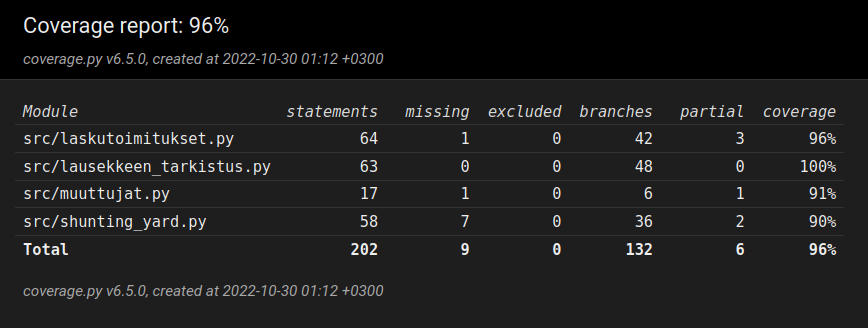
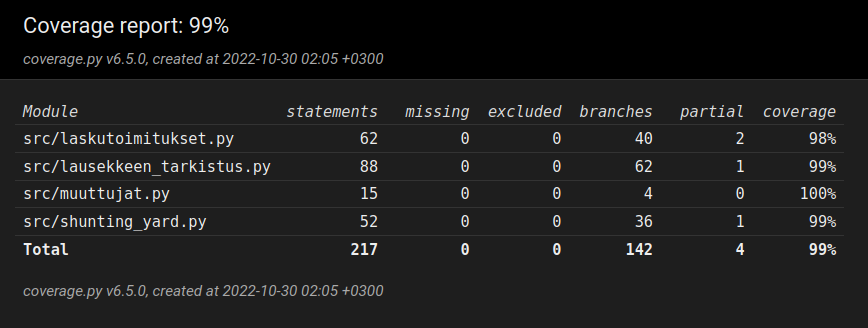
testausta

diff --git a/src/shunting_yard.py b/src/shunting_yard.py
@@ -19,64 +19,53 @@ class ShuntingYard():
         jono = []
         edellinen_operandi = ""
 
-        try:
-            for operandi in lauseke:
-                if operandi == "(":
-                    pino.append(operandi)
+        for operandi in lauseke:
+            if operandi == "(":
+                pino.append(operandi)
 
-                elif operandi == ")":
-                    while pino[-1] != "(":
-                        jono.append(pino[-1])
-                        pino.pop()
+            elif operandi == ")":
+                while pino[-1] != "(":
+                    jono.append(pino[-1])
                     pino.pop()
+                pino.pop()
+                if len(pino) == 0:
+                    continue
+                if pino[-1] in ("sin", "cos", "tan", "asin", "acos", "atan"):
+                    jono.append(pino[-1])
+                    pino.pop()
+            elif operandi in ("+", "-"):
+                if operandi == "-" and edellinen_operandi not in self.numerot and edellinen_operandi not in self.kirjaimet:
+                    jono.append("0")
+                while True:
                     if len(pino) == 0:
-                        continue
-                    if pino[-1] in ("sin", "cos", "tan", "asin", "acos", "atan"):
-                        jono.append(pino[-1])
-                        pino.pop()
-
-                elif operandi in ("+", "-"):
-                    if operandi == "-" and edellinen_operandi not in self.numerot and edellinen_operandi not in self.kirjaimet:
-                        jono.append("0")
-                    while True:
-                        if len(pino) == 0:
-                            break
-                        if pino[-1] not in ("+", "-", "*", "/", "^"):
-                            break
+                        break
+                    if pino[-1] not in ("+", "-", "*", "/", "^"):
+                        break
+                    jono.append(pino[-1])
+                    pino.pop()
+                pino.append(operandi)
+            elif operandi in ("*", "/"):
+                if len(pino) > 0:
+                    if pino[-1] in ("*", "/", "^"):
                         jono.append(pino[-1])
                         pino.pop()
                     pino.append(operandi)
-
-                elif operandi in ("*", "/"):
-                    if len(pino) > 0:
-                        if pino[-1] in ("*", "/", "^"):
-                            jono.append(pino[-1])
-                            pino.pop()
-                        pino.append(operandi)
-                    else:
-                        pino.append(operandi)
-
-                elif operandi == "^":
+                else:
                     pino.append(operandi)
+            elif operandi == "^":
+                pino.append(operandi)
+            elif operandi[0] in self.numerot:
+                jono.append(operandi)
 
-                elif operandi[0] in self.numerot:
+            elif operandi[0] in self.kirjaimet:
+                if operandi in ("sin", "cos", "tan", "asin", "acos", "atan"):
+                    pino.append(operandi)
+                else:
                     jono.append(operandi)
 
-                elif operandi[0] in self.kirjaimet:
-                    if operandi in ("sin", "cos", "tan", "asin", "acos", "atan"):
-                        pino.append(operandi)
-                    else:
-                        jono.append(operandi)
-                else:
-                    print("tääl")
-                    return ["0"]
+            edellinen_operandi = operandi
 
-                edellinen_operandi = operandi
-
-            while len(pino) > 0:
-                jono.append(pino[-1])
-                pino.pop()
-            return jono
-        except IndexError:
-            print("indexError")
-            return ["0"]
+        while len(pino) > 0:
+            jono.append(pino[-1])
+            pino.pop()
+        return jono

diff --git a/src/testit/laskutoimitukset_test.py b/src/testit/laskutoimitukset_test.py
@@ -12,7 +12,8 @@ class TestiLaskutoimitukset(unittest.TestCase):
         kirjaimet = ["q", "w", "e", "r", "t", "y", "u", "i", "o", "p", "å", "a", "s",
                           "d", "f", "g", "h", "j", "k", "l", "ö", "ä", "z", "x", "c", "v", "b", "n", "m"]
         operaattorit = ["+", "-", "*", "/", "^", "=", "(", ")"]
-        self.laskutoimitukset = Laskutoimitukset(muuttujat, numerot, kirjaimet, operaattorit)
+        self.laskutoimitukset = Laskutoimitukset(
+            muuttujat, numerot, kirjaimet, operaattorit)
 
     def testi_peruslaskutoimitukset(self):
         self.assertEqual(self.laskutoimitukset.laske(['1', '2', '+']), 3)
@@ -20,13 +21,18 @@ class TestiLaskutoimitukset(unittest.TestCase):
         self.assertEqual(self.laskutoimitukset.laske(['1', '2', '/']), 0.5)
         self.assertEqual(self.laskutoimitukset.laske(['1', '2', '-']), -1)
         self.assertEqual(self.laskutoimitukset.laske(['1', '2', '^']), 1)
-        self.assertEqual(self.laskutoimitukset.laske(['1', '0', '/']), "virheellinen syöte")
+        self.assertEqual(self.laskutoimitukset.laske(
+            ['1', '0', '/']), "virheellinen syöte")
 
     def testi_funktiot(self):
-        self.assertEqual(self.laskutoimitukset.laske(['3.141592653589793', 'sin']), 0)
-        self.assertEqual(self.laskutoimitukset.laske(['3.141592653589793', 'cos']), -1)
-        self.assertEqual(self.laskutoimitukset.laske(['3.141592653589793', 'tan']), 0)
-        self.assertEqual(self.laskutoimitukset.laske(['8', 'asin']), "virheellinen syöte")
+        self.assertEqual(self.laskutoimitukset.laske(
+            ['3.141592653589793', 'sin']), 0)
+        self.assertEqual(self.laskutoimitukset.laske(
+            ['3.141592653589793', 'cos']), -1)
+        self.assertEqual(self.laskutoimitukset.laske(
+            ['3.141592653589793', 'tan']), 0)
+        self.assertEqual(self.laskutoimitukset.laske(
+            ['8', 'asin']), "virheellinen syöte")
         self.assertEqual(self.laskutoimitukset.laske(['1', 'acos']), 0)
         self.assertEqual(self.laskutoimitukset.laske(['0', 'atan']), 0)
 
@@ -38,5 +44,6 @@ class TestiLaskutoimitukset(unittest.TestCase):
     def testi_muuttujat(self):
         self.laskutoimitukset.muuttujat.lisaa_muuttuja(['x', '=', '9'])
         self.laskutoimitukset.muuttujat.lisaa_muuttuja(['y', '=', '-1'])
-        self.assertEqual(self.laskutoimitukset.laske(['z', 'x', '+']), "virheellinen syöte")
+        self.assertEqual(self.laskutoimitukset.laske(
+            ['z', 'x', '+']), "virheellinen syöte")
         self.assertEqual(self.laskutoimitukset.laske(['y', 'x', '+']), 8)

diff --git a/src/laskin.py b/src/laskin.py
@@ -34,50 +34,15 @@ class Laskin():
         while True:
             self.muuttujat.lisaa_muuttuja(['pi', '=', str(math.pi)])
             lauseke = self.kayttoliittyma.syote()
-            if self.lausekkeen_tarkistus.tarkista(lauseke) is False:
-                self.kayttoliittyma.virheviesti()
-                continue
             if lauseke == "-1":
                 break
-
-            lauseke = self._lausekkeen_muunto(lauseke)
-            if "=" in lauseke:
-                self.muuttujat.lisaa_muuttuja(lauseke)
+            tarkistettu_lauseke = self.lausekkeen_tarkistus.tarkista(lauseke)
+            if tarkistettu_lauseke is False:
+                self.kayttoliittyma.virheviesti()
+                continue
+            if "=" in tarkistettu_lauseke:
+                self.muuttujat.lisaa_muuttuja(tarkistettu_lauseke)
                 continue
             postfix_lauseke = self.shunting_yard.muunna(lauseke)
             self.kayttoliittyma.tulos(
                 self.laskutoimitukset.laske(postfix_lauseke))
-
-    def _lausekkeen_muunto(self, lauseke):
-        lauseke = lauseke.replace(" ", "")
-        lauseke = lauseke.replace("**", "^")
-        merkkijono = ""
-        uusi_lauseke = []
-        edellinen_merkki = ""
-
-        for merkki in lauseke:
-            if merkki not in self.numerot and edellinen_merkki == "numero":
-                uusi_lauseke.append(merkkijono)
-                merkkijono = ""
-            elif merkki not in self.kirjaimet and edellinen_merkki == "kirjain":
-                if merkkijono in ("sin", "cos", "tan"):
-                    uusi_lauseke.append(merkkijono)
-                else:
-                    uusi_lauseke.append(merkkijono)
-                merkkijono = ""
-
-            if merkki in self.numerot:
-                merkkijono += merkki
-                edellinen_merkki = "numero"
-            elif merkki in self.kirjaimet:
-                merkkijono += merkki
-                edellinen_merkki = "kirjain"
-            elif merkki in self.operaattorit:
-                uusi_lauseke.append(merkki)
-                edellinen_merkki = "operaattori"
-        if edellinen_merkki == "numero":
-            uusi_lauseke.append(merkkijono)
-        elif edellinen_merkki == "kirjain":
-            uusi_lauseke.append(merkkijono)
-
-        return uusi_lauseke

diff --git a/src/testit/lausekkeen_tarkistus_test.py b/src/testit/lausekkeen_tarkistus_test.py
@@ -14,12 +14,18 @@ class TestiLausekkeenTarkistus(unittest.TestCase):
             numerot, kirjaimet, operaattorit)
 
     def testi_hyvaksyttavat_lausekkeet(self):
-        self.assertEqual(self.lausekkeen_tarkistus.tarkista("sin(1.234+2)"), True)
-        self.assertEqual(self.lausekkeen_tarkistus.tarkista("7-8"), True)
-        self.assertEqual(self.lausekkeen_tarkistus.tarkista("-(1+2)*5"), True)
-        self.assertEqual(self.lausekkeen_tarkistus.tarkista("cos(9.345)-2.2"), True)
-        self.assertEqual(self.lausekkeen_tarkistus.tarkista("-2**5"), True)
-        self.assertEqual(self.lausekkeen_tarkistus.tarkista("-(1+(2*x)/6)-3"), True)
+        self.assertEqual(
+            self.lausekkeen_tarkistus.tarkista("sin(1.234+2)"), ['sin', '(', '1.234', '+', '2', ')'])
+        self.assertEqual(self.lausekkeen_tarkistus.tarkista(
+            "7-8"), ['7', '-', '8'])
+        self.assertEqual(self.lausekkeen_tarkistus.tarkista(
+            "-(1+2)*5"), ['-', '(', '1', '+', '2', ')', '*', '5'])
+        self.assertEqual(self.lausekkeen_tarkistus.tarkista(
+            "cos(9.345)-2.2"), ['cos', '(', '9.345', ')', '-', '2.2'])
+        self.assertEqual(self.lausekkeen_tarkistus.tarkista(
+            "-2**5"), ['-', '2', '^', '5'])
+        self.assertEqual(self.lausekkeen_tarkistus.tarkista(
+            "-(1+(2*x)/16)-koira"), ['-', '(', '1', '+', '(', '2', '*', 'x', ')', '/', '16', ')', '-', 'koira'])
 
     def testi_tunnistamaton_merkki(self):
         self.assertEqual(self.lausekkeen_tarkistus.tarkista("1,2"), False)
@@ -33,7 +39,8 @@ class TestiLausekkeenTarkistus(unittest.TestCase):
     def testi_virheelliset_lausekkeet(self):
         self.assertEqual(self.lausekkeen_tarkistus.tarkista("1--2"), False)
         self.assertEqual(self.lausekkeen_tarkistus.tarkista("(.2+2)"), False)
-        self.assertEqual(self.lausekkeen_tarkistus.tarkista("(1+2)(3-4)"), False)
+        self.assertEqual(
+            self.lausekkeen_tarkistus.tarkista("(1+2)(3-4)"), False)
         self.assertEqual(self.lausekkeen_tarkistus.tarkista("5(4-2)1"), False)
         self.assertEqual(self.lausekkeen_tarkistus.tarkista("3.14.5"), False)
         self.assertEqual(self.lausekkeen_tarkistus.tarkista("1*(1+3"), False)

diff --git a/src/testit/shunting_yard_test.py b/src/testit/shunting_yard_test.py
@@ -2,16 +2,22 @@ import unittest
 
 from shunting_yard import ShuntingYard
 
+
 class TestiShuntingYard(unittest.TestCase):
     def setUp(self):
         numerot = ["0", "1", "2", "3", "4", "5", "6", "7", "8", "9"]
         kirjaimet = ["q", "w", "e", "r", "t", "y", "u", "i", "o", "p", "å", "a", "s",
                           "d", "f", "g", "h", "j", "k", "l", "ö", "ä", "z", "x", "c", "v", "b", "n", "m"]
-        self.shunting_yard=ShuntingYard(numerot, kirjaimet)
+        self.shunting_yard = ShuntingYard(numerot, kirjaimet)
 
     def testi_lausekkeen_muuntaminen_toimii_oikein(self):
-        self.assertEqual(self.shunting_yard.muunna(['3', '+', '4', '*', '(', '2', '-', '1', ')']), ["3", "4", "2", "1", "-", "*", "+"])
-        self.assertEqual(self.shunting_yard.muunna(['-', '(', '8', '-', '2', ')', '^', '2']), ['0', '8', '2', '-', '2', '^', '-'])
-        self.assertEqual(self.shunting_yard.muunna(['-', 'cos', '(', 'pi', ')', '-', '3', '/', '7']), ['0', 'pi', 'cos', '0', '-', '3', '7', '/', '-'])
-        self.assertEqual(self.shunting_yard.muunna(['(', '(', '2', '-', '3', ')', '^', '2', '-', '(', '3', '*', '1', ')', ')', '/', '4']), ['2', '3', '-', '2', '^', '3', '1', '*', '-', '4', '/'])
-        
+        self.assertEqual(self.shunting_yard.muunna(
+            ['3', '+', '4', '*', '(', '2', '-', '1', ')']), ["3", "4", "2", "1", "-", "*", "+"])
+        self.assertEqual(self.shunting_yard.muunna(
+            ['-', '(', '8', '-', '2', ')', '^', '2']), ['0', '8', '2', '-', '2', '^', '-'])
+        self.assertEqual(self.shunting_yard.muunna(
+            ['-', 'cos', '(', 'pi', ')', '-', '3', '/', '7']), ['0', 'pi', 'cos', '0', '-', '3', '7', '/', '-'])
+        self.assertEqual(self.shunting_yard.muunna(['(', '(', '2', '-', '3', ')', '^', '2', '-', '(',
+                         '3', '*', '1', ')', ')', '/', '4']), ['2', '3', '-', '2', '^', '3', '1', '*', '-', '4', '/'])
+        self.assertEqual(self.shunting_yard.muunna(
+            ['2', '*', '3', '*', '5', '/', '3']), ['2', '3', '*', '5', '*', '3', '/'])

diff --git a/src/lausekkeen_tarkistus.py b/src/lausekkeen_tarkistus.py
@@ -13,14 +13,42 @@ class LausekkeenTarkistus():
         Args:
             lauseke (merkkijono): tarkistettava lauseke
         """
+        lauseke = lauseke.replace(" ", "")
+        lauseke = lauseke.replace("**", "^")
         if "=" in lauseke:
             return self._tarkista_muuttujan_lisays(lauseke)
         if not (self._tarkista_sulut(lauseke) and self._tarkista_desimaalipisteet(lauseke) and self._tarkista_lausekkeen_jarjestys(lauseke)):
             return False
-        return True
+        lauseke = self._muunna_listaksi(lauseke)
+        return lauseke
+
+    def _muunna_listaksi(self, lauseke):
+        merkkijono = ""
+        uusi_lauseke = []
+        edellinen_merkki = ""
+
+        for merkki in lauseke:
+            if (merkki not in self.numerot and edellinen_merkki == "numero") or (merkki not in self.kirjaimet and edellinen_merkki == "kirjain"):
+                uusi_lauseke.append(merkkijono)
+                merkkijono = ""
+
+            if merkki in self.numerot:
+                merkkijono += merkki
+                edellinen_merkki = "numero"
+            elif merkki in self.kirjaimet:
+                merkkijono += merkki
+                edellinen_merkki = "kirjain"
+            elif merkki in self.operaattorit:
+                uusi_lauseke.append(merkki)
+                edellinen_merkki = "operaattori"
+        if edellinen_merkki == "numero":
+            uusi_lauseke.append(merkkijono)
+        elif edellinen_merkki == "kirjain":
+            uusi_lauseke.append(merkkijono)
+        print(uusi_lauseke)
+        return uusi_lauseke
 
     def _tarkista_lausekkeen_jarjestys(self, lauseke):
-        lauseke = lauseke.replace("**", "^")
         edellinen_merkki = ""
         for merkki in lauseke:
             if merkki not in self.numerot and merkki not in self.kirjaimet and merkki not in self.operaattorit:

diff --git a/src/testit/muuttujat_test.py b/src/testit/muuttujat_test.py
@@ -8,11 +8,11 @@ class TestiMuuttujat(unittest.TestCase):
         self.muuttujat = Muuttujat()
 
     def testi_muuttuja_tallentuu(self):
-        self.muuttujat.lisaa_muuttuja(['x','=','9.0'])
+        self.muuttujat.lisaa_muuttuja(['x', '=', '9.0'])
         self.assertEqual(self.muuttujat.muuttujat, {'x': 9.0})
 
     def testi_muuttuja_on_olemassa(self):
-        self.muuttujat.lisaa_muuttuja(['y','=','2'])
+        self.muuttujat.lisaa_muuttuja(['y', '=', '2'])
         self.assertEqual(self.muuttujat.onko_muuttuja_olemassa("y"), True)
 
     def testi_muuttuja_ei_ole_olemassa(self):

diff --git a/src/laskutoimitukset.py b/src/laskutoimitukset.py
@@ -45,8 +45,6 @@ class Laskutoimitukset():
             if -0.0000000001 < tulos < 0.0000000001:
                 return 0
             return tulos
-        except IndexError:
-            return "virheellinen syöte"
         except TypeError:
             return "virheellinen syöte"
 

diff --git a/src/muuttujat.py b/src/muuttujat.py
@@ -16,6 +16,4 @@ class Muuttujat():
         return False
 
     def arvo(self, nimi):
-        if str(nimi) in self.muuttujat:
-            return self.muuttujat[nimi]
-        return False
+        return self.muuttujat[nimi]
